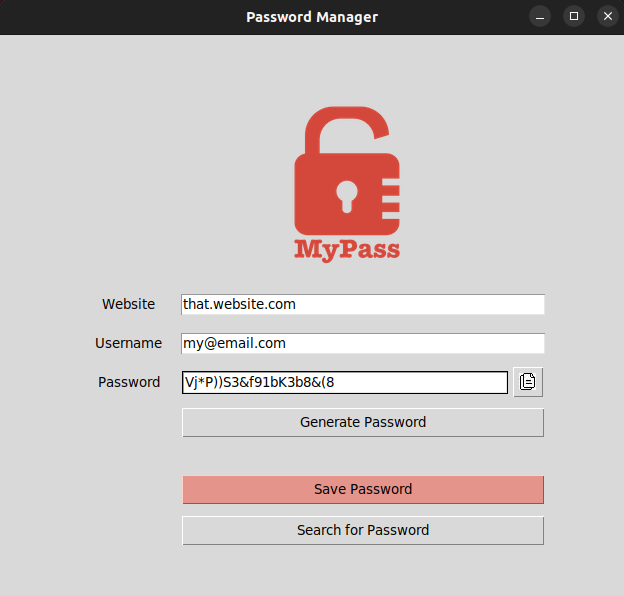
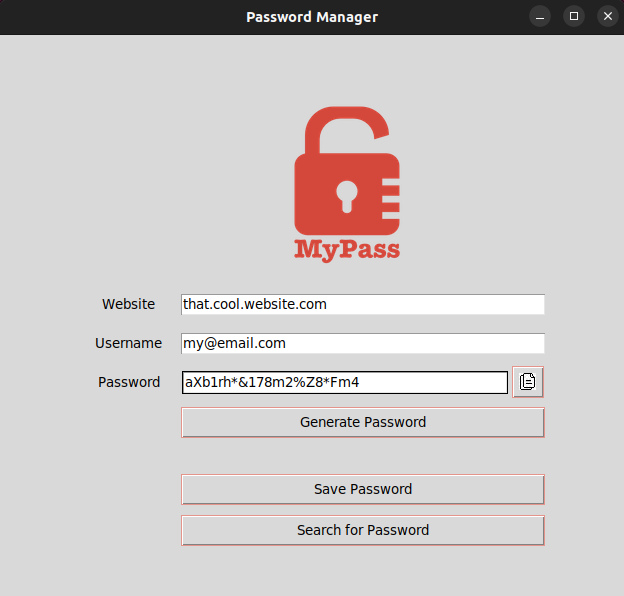
Added button highlighting. Updated password generator. Updated screenshot.

diff --git a/main.py b/main.py
@@ -16,8 +16,8 @@ SYMBOLS = ['!', '#', '$', '%', '&', '(', ')', '*', '+']
 PASSWORD_LENGTH = 20
 
 num_letters = random.randint(8, 10)
-num_numbers = random.randint(4, 6)
-num_symbols = PASSWORD_LENGTH - num_letters - num_numbers
+num_symbols = random.randint(4, 5)
+num_numbers = PASSWORD_LENGTH - num_letters - num_symbols
 
 
 def generate_password():
@@ -177,19 +177,22 @@ spacer_label.grid(column=1, row=5)
 # BUTTONS
 # Save password
 passwd_add_btn = Button(width=42, text="Save Password", command=save_password)
-passwd_add_btn.config(bg="#e5948b")
+passwd_add_btn.config(highlightbackground="#e5948b", highlightthickness=1)
 passwd_add_btn.grid(column=1, row=6, columnspan=2, pady=10)
 # Generate password
 passwd_gen_btn = Button(width=42, text="Generate Password", command=generate_password)
+passwd_gen_btn.config(highlightbackground="#e5948b", highlightthickness=1)
 passwd_gen_btn.grid(column=1, row=4, columnspan=2, pady=5)
 # Copy password
 img = Image.open("img/copy.png")
 resized_img = img.resize((17, 17))
 copy_img = ImageTk.PhotoImage(resized_img)
 copy_btn = Button(width=26, height=26, command=copy_password, image=copy_img)
+copy_btn.config(highlightbackground="#e5948b", highlightthickness=1)
 copy_btn.grid(column=2, row=3)
 # Search for existing password
 search_btn = Button(width=42, text="Search for Password", command=search_password)
+search_btn.config(highlightbackground="#e5948b", highlightthickness=1)
 search_btn.grid(column=1, row=7, columnspan=2)
 
 window.mainloop()

diff --git a/main-winx86_64.py b/main-winx86_64.py
@@ -16,8 +16,8 @@ SYMBOLS = ['!', '#', '$', '%', '&', '(', ')', '*', '+']
 PASSWORD_LENGTH = 20
 
 num_letters = random.randint(8, 10)
-num_numbers = random.randint(4, 6)
-num_symbols = PASSWORD_LENGTH - num_letters - num_numbers
+num_symbols = random.randint(4, 5)
+num_numbers = PASSWORD_LENGTH - num_letters - num_symbols
 
 
 def generate_password():
@@ -177,19 +177,22 @@ spacer_label.grid(column=1, row=5)
 # BUTTONS
 # Add password
 passwd_add_btn = Button(width=38, text="Save Password", command=save_password)
-passwd_add_btn.config(bg="#e5948b")
+passwd_add_btn.config(highlightbackground="#e5948b", highlightthickness=1)
 passwd_add_btn.grid(column=1, row=6, columnspan=2, pady=10)
 # Generate password
 passwd_gen_btn = Button(width=38, text="Generate Password", command=generate_password)
+passwd_gen_btn.config(highlightbackground="#e5948b", highlightthickness=1)
 passwd_gen_btn.grid(column=1, row=4, columnspan=2, pady=5)
 # Copy password
 img = Image.open("img/copy.png")
 resized_img = img.resize((17, 17))
 copy_img = ImageTk.PhotoImage(resized_img)
 copy_btn = Button(width=26, height=26, command=copy_password, image=copy_img)
+copy_btn.config(highlightbackground="#e5948b", highlightthickness=1)
 copy_btn.grid(column=2, row=3)
 # Search for existing password
 search_btn = Button(width=38, text="Search for Password", command=search_password)
+search_btn.config(highlightbackground="#e5948b", highlightthickness=1)
 search_btn.grid(column=1, row=7, columnspan=2)
 
 window.mainloop()
